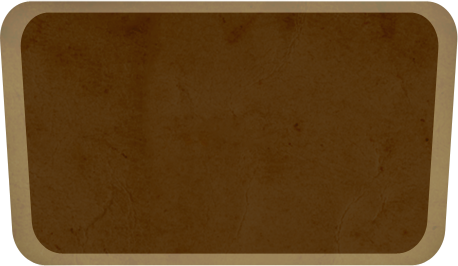
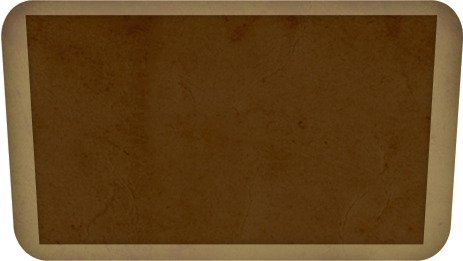
Video Novo

Changed region(s): [[0.0, 0.0, 1.0, 1.0]]

diff --git a/public/stylesheets/home_small.css b/public/stylesheets/home_small.css
@@ -18,8 +18,8 @@ section{
 	z-index:100;
 	top:0px;
 	left:450px;
-	width:458px;
-	height:266px;
+	width:463px;
+	height:261px;
 	background-image:url(../images/bg-video-tablet.png);
 	background-repeat:no-repeat;
 	background-position:center top;

diff --git a/public/stylesheets/style.css b/public/stylesheets/style.css
@@ -129,8 +129,8 @@ article{
 	z-index:100;
 	top:180px;
 	left:182px;
-	width:596px;
-	height:344px;
+	width:630px;
+	height:368px;
 	background-image:url(../images/bg-video.png);
 	background-repeat:no-repeat;
 	background-position:center top;
